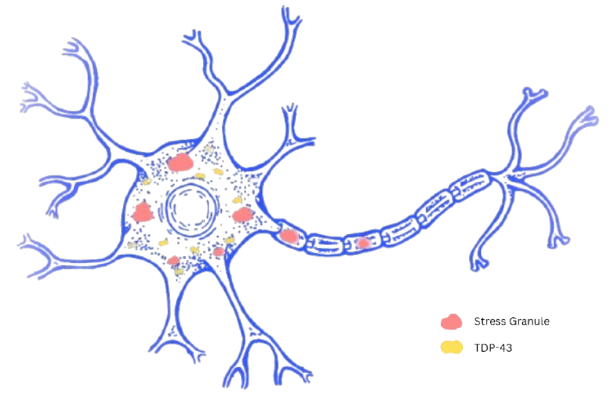
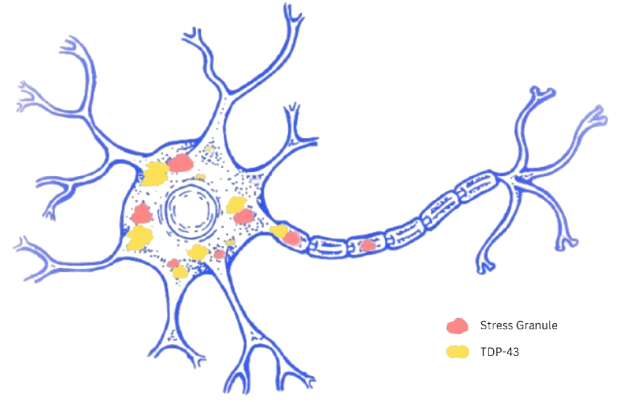
images

Changed region(s): [[0.0, 0.0, 0.9967, 1.0], [0.7164, 0.7879, 0.9033, 0.9091]]

diff --git a/index.html b/index.html
@@ -168,6 +168,26 @@ nav {
   margin: 2rem auto;  
 }
 
+.comparison {
+  display: flex;
+  align-items: center;       /* vertically align images with text */
+  justify-content: center;   /* center the whole row horizontally */
+  gap: 1.5rem;               /* space between images and "vs." */
+  margin: 2rem 0;            /* vertical spacing from other content */
+}
+
+.comparison-image {
+  max-width: 250px;  /* adjust size as needed */
+  height: auto;
+  display: block;
+}
+
+.vs-text {
+  font-size: 1.5rem; 
+  font-weight: 600;
+  color: var(--blue);
+}
+
 h2 {
   font-family: 'DM Serif Display', serif;
   font-size: 3rem;
@@ -190,10 +210,10 @@ h2 {
 }
 
 .stat-label {
-  font-size: 1.3rem;
+  font-size: 1.2rem;
   color: var(--muted);
   margin-top: 0.5rem;
-  max-width: 250px;
+  max-width: 350px;
 }
 
 /* ---------- PLACEHOLDER ---------- */
@@ -288,13 +308,20 @@ footer {
   <p>
     We have developed novel antisense oligonucleotides to knock down proteins implicated in stress granule formation.
   </p>
-  <div class="placeholder">Therapeutic strategy diagram</div>
+  <img src="https://adyashipekar.github.io/page/solution_image.png" alt="Therapeutic strategy diagram" class="section-image">
+  <p>
+    Furthermore, we used computational modeling and in-vitro testing to create a RNA aptamer that prevents the formation of TDP-43 aggregates.
+  </p>
+  <img src="https://adyashipekar.github.io/page/rna-aptamer.png" alt="RNA aptamer image" class="section-image">
 </section>
 
 <section class="section" id="comparison">
   <h2>Before and After Treatment</h2>
-  <div class="placeholder">Untreated neuron</div>
-  <div class="placeholder">Post-treatment neuron</div>
+  <div class="comparison">
+  <img src="https://adyashipekar.github.io/page/before_image.png" alt="Untreated neuron" class="comparison-image">
+  <span class="vs-text">vs.</span>
+  <img src="https://adyashipekar.github.io/page/after_image.png" alt="Post-treatment neuron" class="comparison-image">
+</div>
 </section>
 
 <section class="section" id="video">
